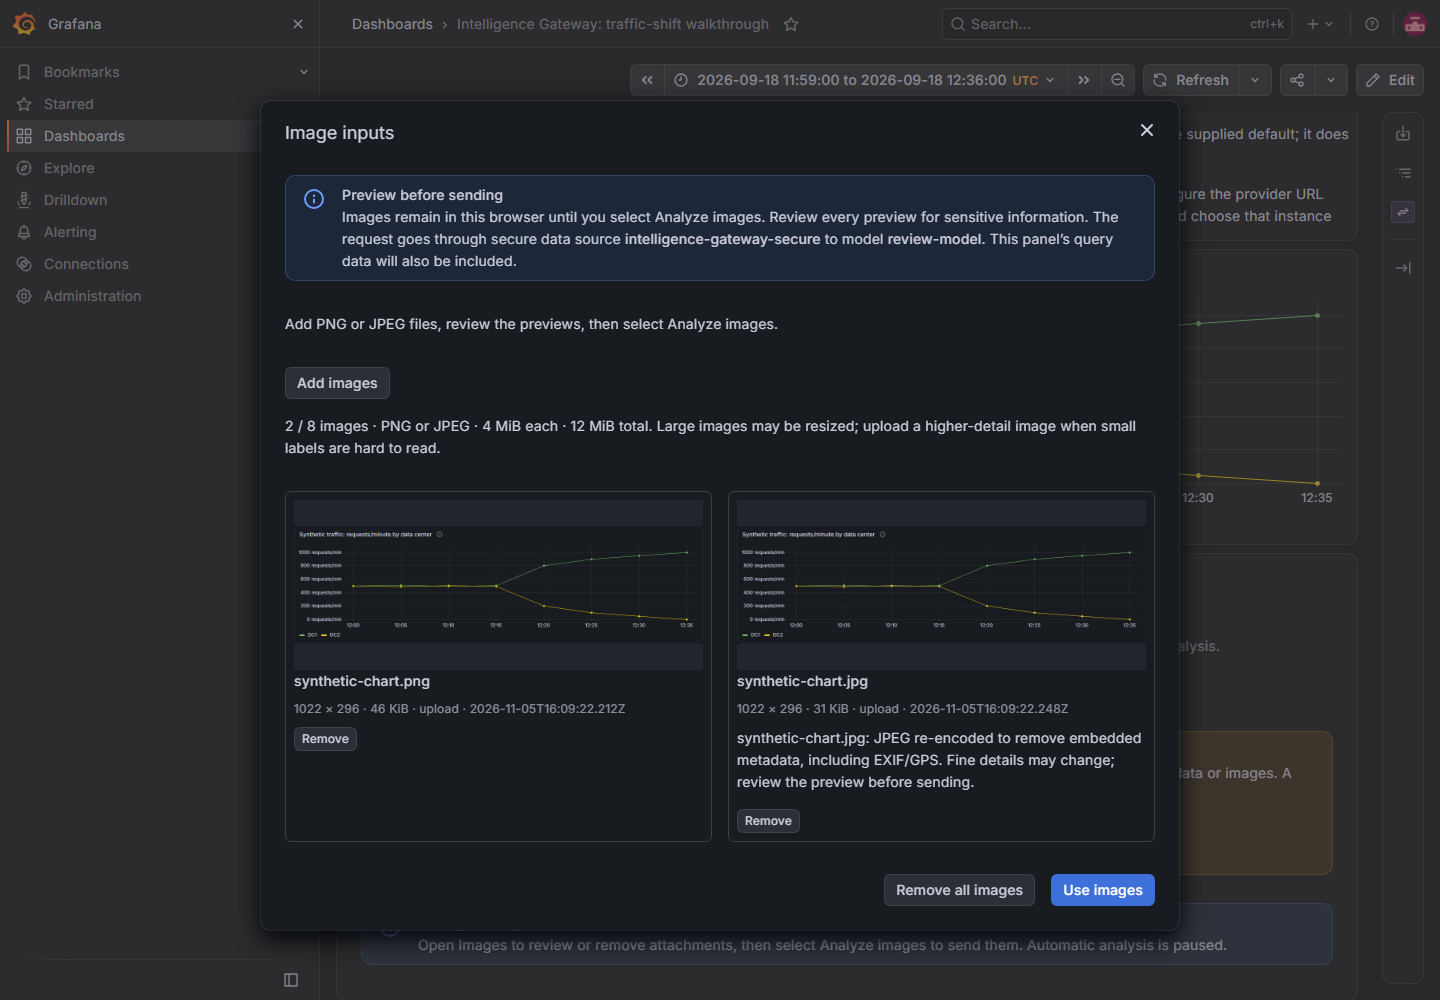
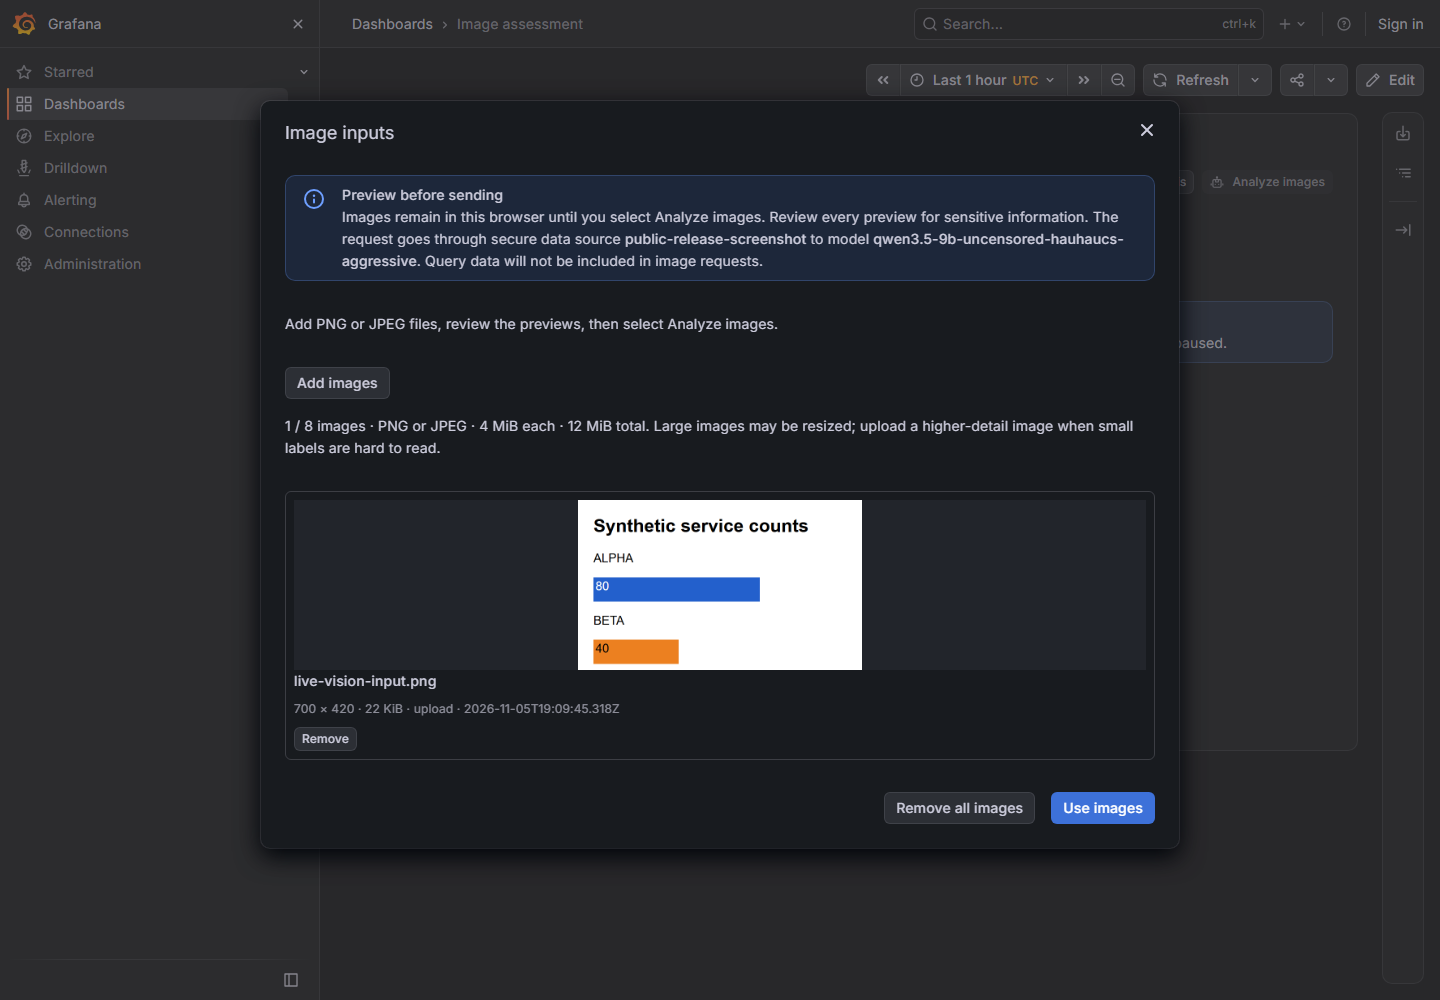
Refresh public screenshots with verified real image inference

diff --git a/VALIDATION.md b/VALIDATION.md
@@ -30,3 +30,5 @@ The results in this section predate the real-backend setup cleanup below; refere
 - Desktop 1440×1000 and dashboard viewport 390×844 were checked. Setup, preset selection, stale warnings, snapshot follow-up payloads, exported Markdown, baseline arithmetic, image workflows and clearing passed. No unexpected console/page errors occurred in the observed workflows; the existing exact-response classifier records known Grafana optional-configuration diagnostics.
 - Browser plugin unavailable: used the repository’s `@grafana/plugin-e2e` Playwright tests. Initial failures exposed a native dropdown layout issue (replaced with Grafana Select), an unapplied text-editor change (test now blurs the input), and narrow host-editor interception (narrow testing now uses the dashboard, not Grafana’s split editor). An initial startup network-idle timeout did not recur in the serial full run.
 - All inference tests used synthetic query data and the explicitly labeled deterministic mock. These verify transport and workflow, not real-model assessment quality. No signing, public release, Wiki publication or catalog submission was performed. Intermediate Grafana versions and latest development images were not exercised in this change.
+
+Release follow-up: all 84 unit tests and TypeScript passed. Real images-only inference was also exercised through the rendered public panel with no intercepted responses; both counts and their difference were correct. Catalog and wiki screenshots now show this live assessment and its upload preview. A redacted Gitleaks scan of 71 public source commits found no leaks.
